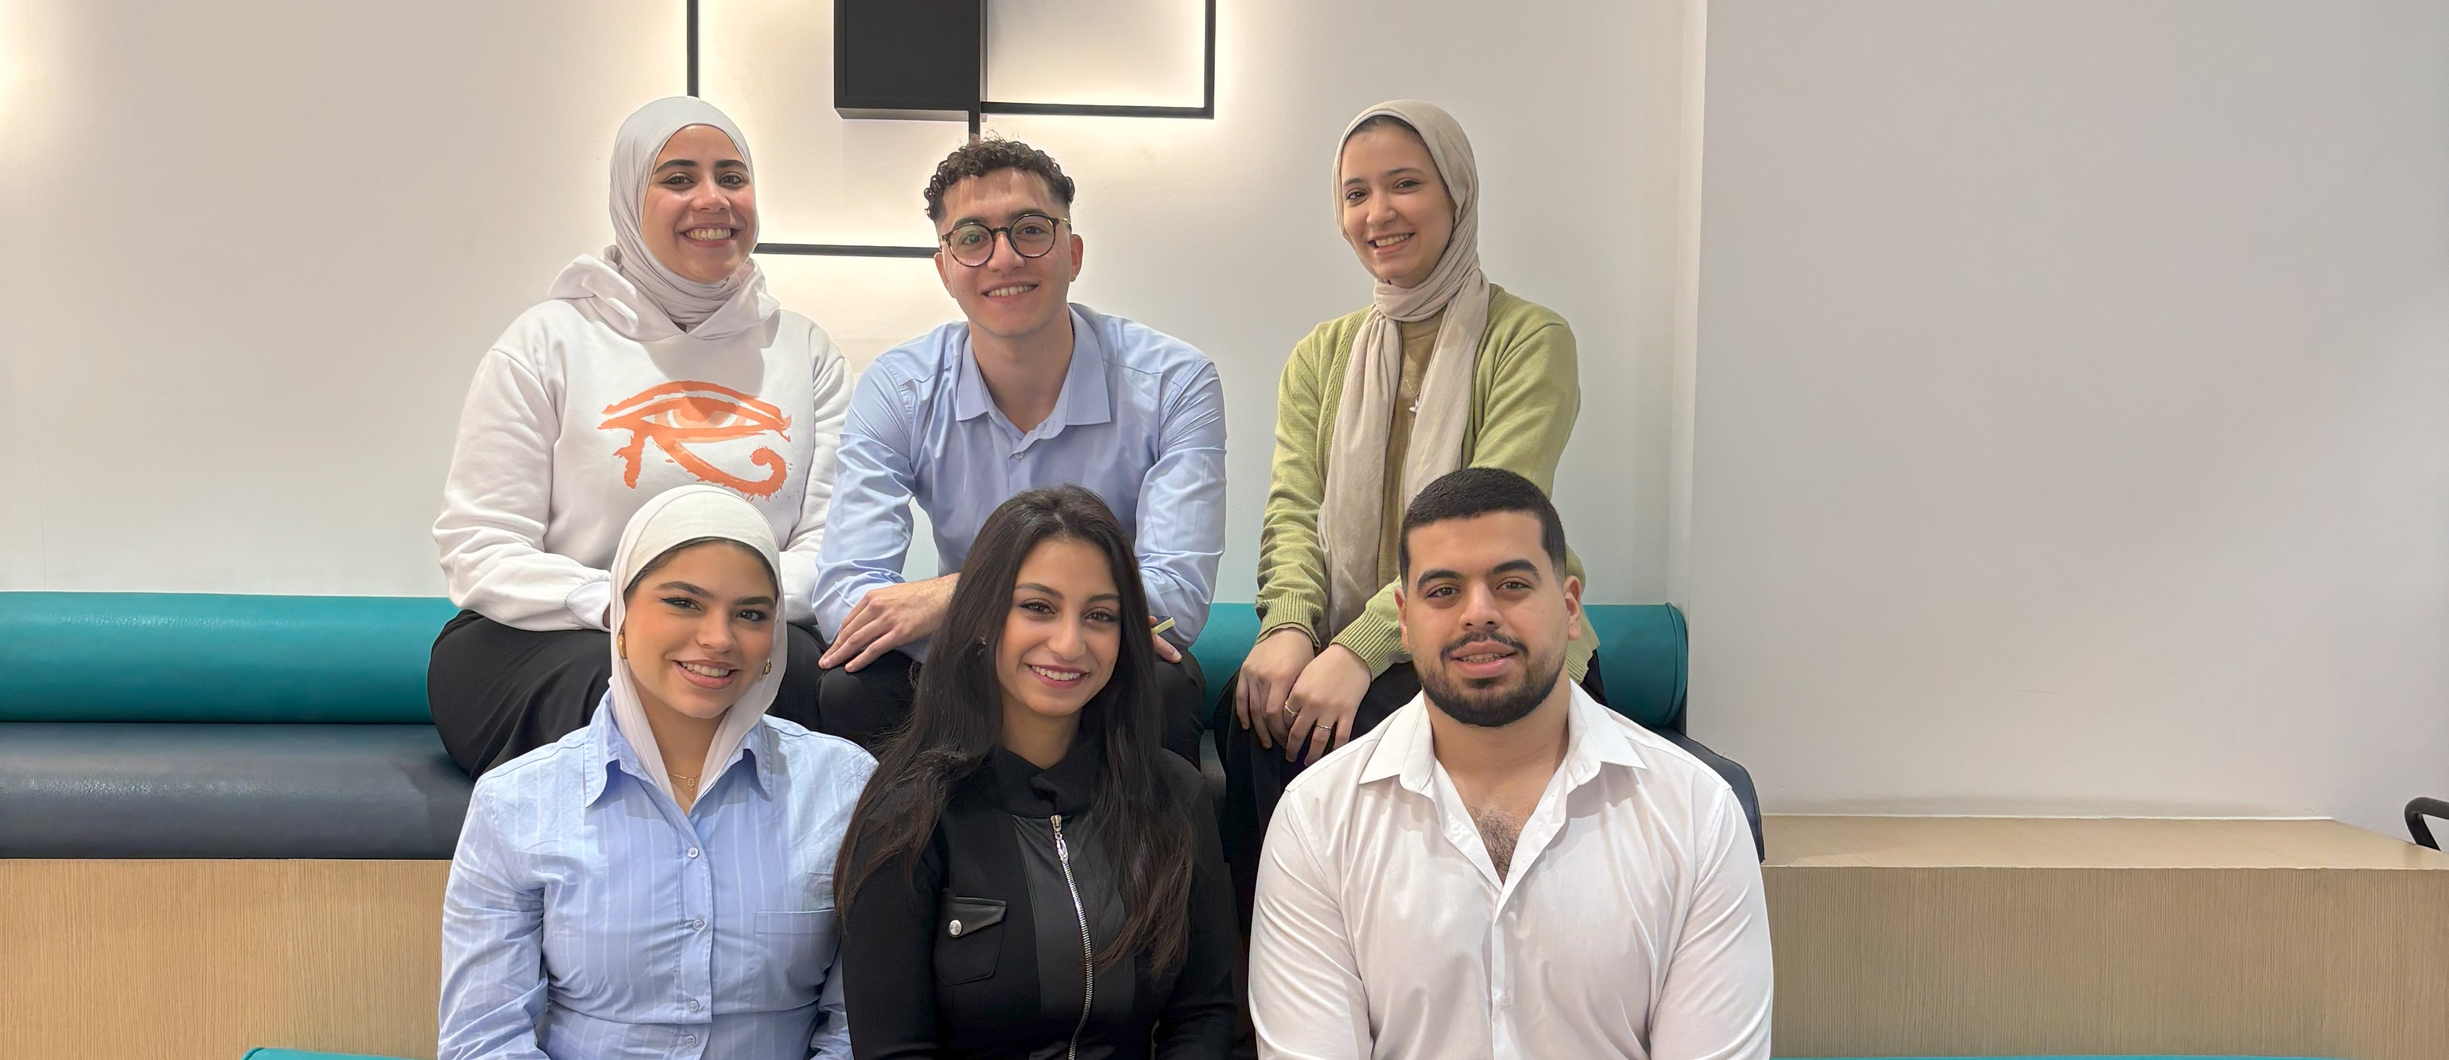
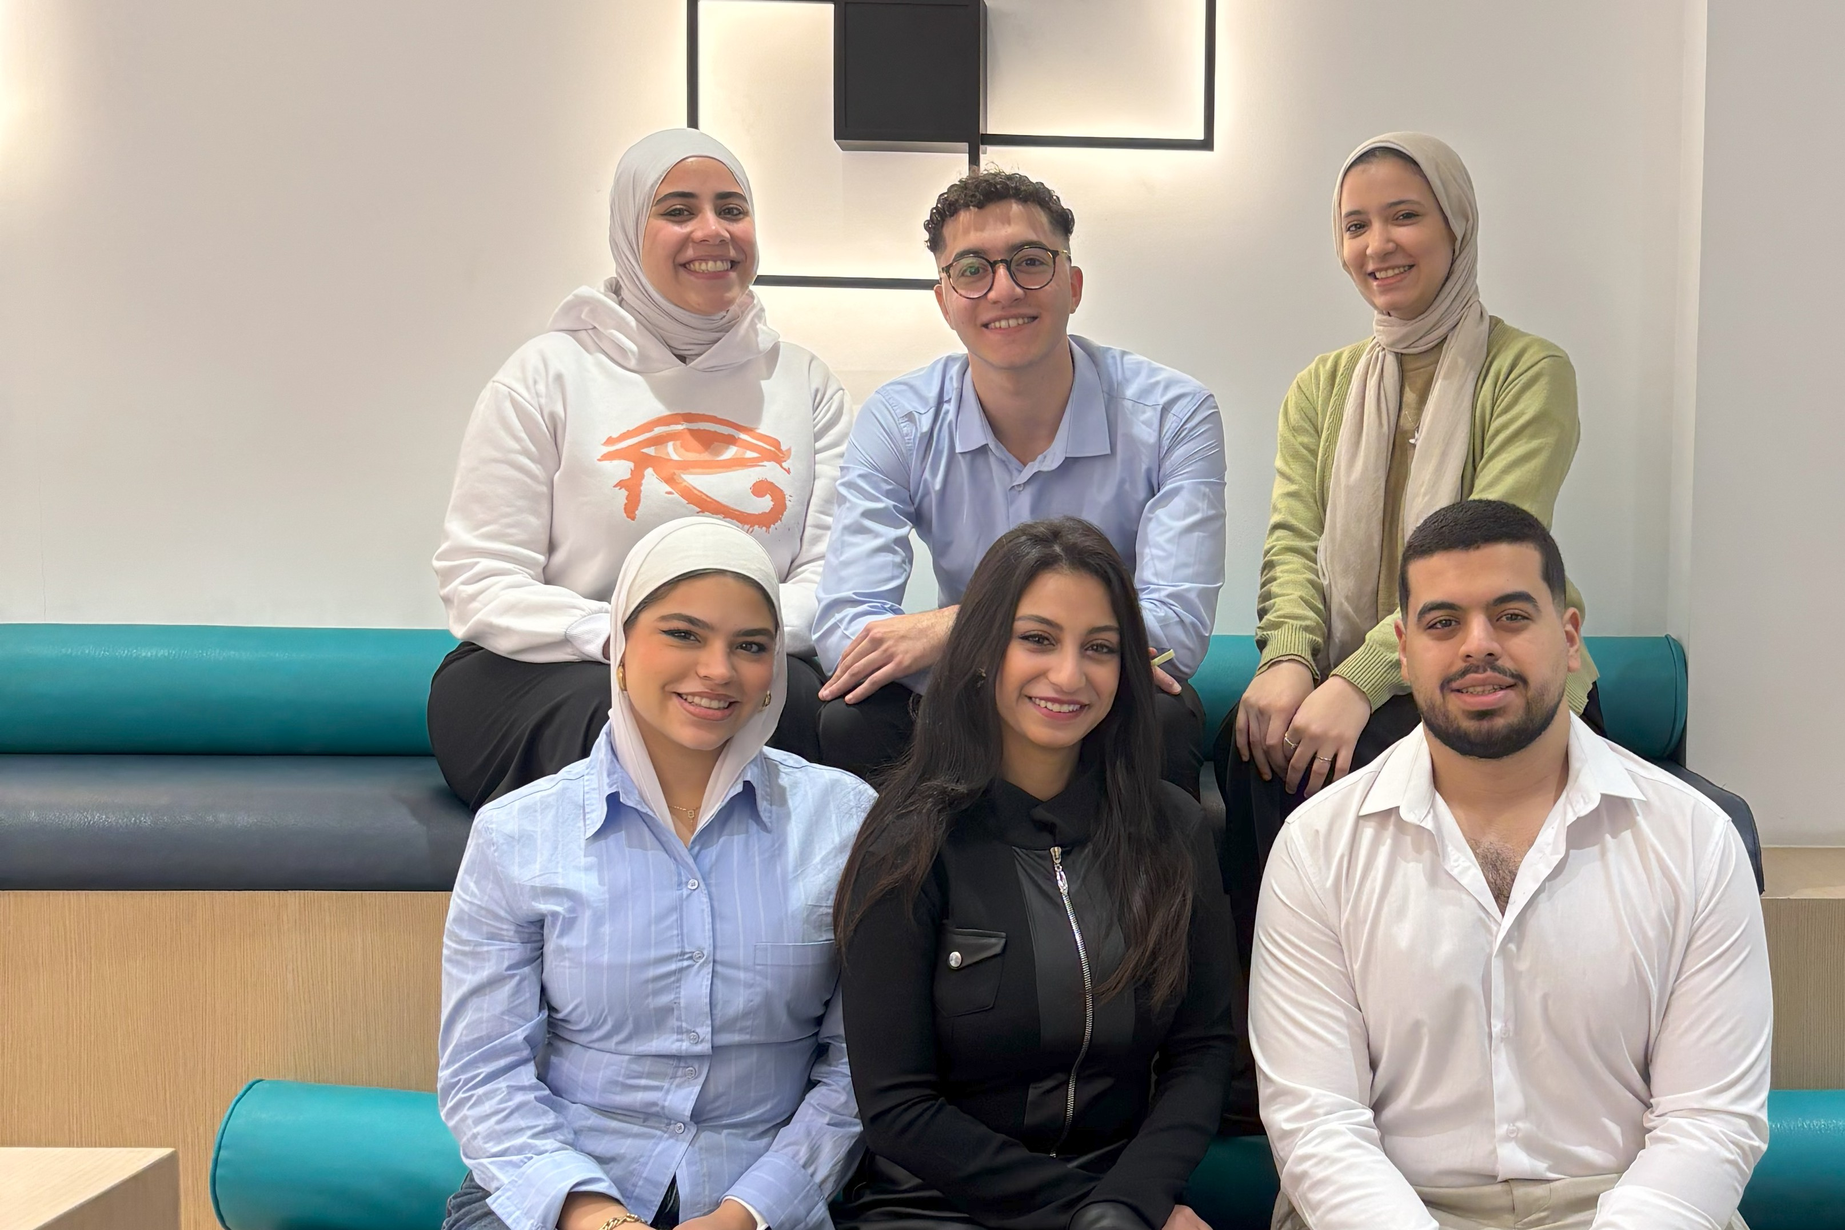
update styles in HTML files and replace team image

diff --git a/index.html b/index.html
@@ -151,7 +151,7 @@
 
     h1 {
       margin: .67em 0;
-      font-size: 2em
+      font-size: 1em
     }
 
     mark {
@@ -762,8 +762,8 @@
    }
     
    .heading_largee {
-        font-size: 6vh;
-        line-height: 1.2;
+        font-size: 2rem;
+        
       }
     @media (max-width: 768px) {
 
@@ -2922,7 +2922,7 @@
     }
 
     .text-size-medium {
-      font-size: 1.125rem
+      font-size: .875rem
     }
 
     .margin-top-auto {
@@ -3531,7 +3531,7 @@
       display: flex
     }
 
-    .nav_container {
+    .nav_container {  
       grid-column-gap: 1rem;
       grid-row-gap: 1rem;
       -webkit-backdrop-filter: blur(1rem);
@@ -3543,7 +3543,7 @@
       width: 100%;
       max-width: 90rem;
       height: auto;
-      min-height: 4.5rem;
+      min-height: 4rem;
       margin-left: auto;
       margin-right: auto;
       padding-left: 1.2rem;
@@ -4151,8 +4151,8 @@
       cursor: pointer;
       justify-content: space-between;
       align-items: center;
-      padding-top: 2rem;
-      padding-bottom: 2rem;
+      padding-top: 1rem;
+      padding-bottom: 1rem;
       transition: all .4s;
       display: flex;
 
@@ -4317,9 +4317,9 @@
     }
 
     .hero_heading {
-      letter-spacing: -6px;
-      font-size: 5.5rem;
-      line-height: 1
+      letter-spacing: -3px; 
+      font-size: 4.7rem;
+      
     }
 
     @media screen and (max-width:991px) {
@@ -4887,7 +4887,7 @@
       }
 
       .text-size-medium {
-        font-size: 1rem
+        font-size: .875rem
       }
 
       .text-style-quote {
@@ -5182,7 +5182,7 @@
 
       .hero_heading {
         letter-spacing: -5px;
-        font-size: 5rem
+        font-size: 3rem
       }
     }
 
@@ -5369,7 +5369,7 @@
 
       .hero_heading {
         letter-spacing: -2.5px;
-        font-size: 3rem
+        font-size: 2rem
       }
     }
 
@@ -6847,10 +6847,10 @@
             <div class="hero_content">
               <div class="padding-global">
                 <div class="container-large">
-                  <div class="padding-section-large">
+                  <div class="padding-section-large" style="padding-top: 0rem;padding-bottom: 3rem;">
                     <div class="hero_content-block">
                       <div class="margin-bottom margin-large">
-                        <h1 id="w-node-_5bd39bc8-c462-dd65-6a3b-018ef7198387-614ffb99"
+                        <h1  id="w-node-_5bd39bc8-c462-dd65-6a3b-018ef7198387-614ffb99"
                           data-w-id="5bd39bc8-c462-dd65-6a3b-018ef7198387" class="hero_heading max-width-xlarge">
                           <span
                             style="color: white; font-family: bb; opacity:0;-webkit-transform:translate3d(0, 75%, 0) scale3d(1, 1, 1) rotateX(0) rotateY(0) rotateZ(0) skew(0, 0);-moz-transform:translate3d(0, 75%, 0) scale3d(1, 1, 1) rotateX(0) rotateY(0) rotateZ(0) skew(0, 0);-ms-transform:translate3d(0, 75%, 0) scale3d(1, 1, 1) rotateX(0) rotateY(0) rotateZ(0) skew(0, 0);transform:translate3d(0, 75%, 0) scale3d(1, 1, 1) rotateX(0) rotateY(0) rotateZ(0) skew(0, 0)"
@@ -6958,10 +6958,10 @@
           <div class="container-large">
             <div class="padding-section-large">
               <div class="w-layout-grid intro_grid">
-                <h3 id="w-node-c7bc327d-970a-69ce-2175-cb5e77b2acd0-614ffb99"
+                <h4 id="w-node-c7bc327d-970a-69ce-2175-cb5e77b2acd0-614ffb99"
                   data-w-id="c7bc327d-970a-69ce-2175-cb5e77b2acd0">
                   <span
-                    style="color:#FFC70A ; font-size: 100px;  opacity:0;-webkit-transform:translate3d(0, 75%, 0) scale3d(1, 1, 1) rotateX(0) rotateY(0) rotateZ(0) skew(0, 0);-moz-transform:translate3d(0, 75%, 0) scale3d(1, 1, 1) rotateX(0) rotateY(0) rotateZ(0) skew(0, 0);-ms-transform:translate3d(0, 75%, 0) scale3d(1, 1, 1) rotateX(0) rotateY(0) rotateZ(0) skew(0, 0);transform:translate3d(0, 75%, 0) scale3d(1, 1, 1) rotateX(0) rotateY(0) rotateZ(0) skew(0, 0)"
+                    style="color:#FFC70A ; font-size: 4.7rem;  opacity:0;-webkit-transform:translate3d(0, 75%, 0) scale3d(1, 1, 1) rotateX(0) rotateY(0) rotateZ(0) skew(0, 0);-moz-transform:translate3d(0, 75%, 0) scale3d(1, 1, 1) rotateX(0) rotateY(0) rotateZ(0) skew(0, 0);-ms-transform:translate3d(0, 75%, 0) scale3d(1, 1, 1) rotateX(0) rotateY(0) rotateZ(0) skew(0, 0);transform:translate3d(0, 75%, 0) scale3d(1, 1, 1) rotateX(0) rotateY(0) rotateZ(0) skew(0, 0)"
                     class="span_heading _01  ">Human - <span style="color: white;">Centric</span> Culture
                   </span>
                   <div></div>
@@ -7022,24 +7022,24 @@
             <div class="textSlide"><h4>Operating in over 7 countries</h4></div>
             <div class="textSlide"><h4>98% Customer Satisfaction</h4></div>
             <div class="textSlide"><h4>Trained 2600+ Professionals</h4></div>
-            <div class="textSlide"><h4>500+ Employees Engaged</h4></div>
+            <div class="textSlide"><h4>+500 Employees Engaged</h4></div>
             <!-- Duplicated for seamless effect -->
             <div class="textSlide"><h4>Operating in over 7 countries</h4></div>
             <div class="textSlide"><h4>98% Customer Satisfaction</h4></div>
             <div class="textSlide"><h4>Trained 2600+ Professionals</h4></div>
-            <div class="textSlide"><h4>500+ Employees Engaged</h4></div>
+            <div class="textSlide"><h4>+500 Employees Engaged</h4></div>
             <div class="textSlide"><h4>Operating in over 7 countries</h4></div>
             <div class="textSlide"><h4>98% Customer Satisfaction</h4></div>
             <div class="textSlide"><h4>Trained 2600+ Professionals</h4></div>
-            <div class="textSlide"><h4>500+ Employees Engaged</h4></div>
+            <div class="textSlide"><h4>+500 Employees Engaged</h4></div>
             <div class="textSlide"><h4>Operating in over 7 countries</h4></div>
             <div class="textSlide"><h4>98% Customer Satisfaction</h4></div>
             <div class="textSlide"><h4>Trained 2600+ Professionals</h4></div>
-            <div class="textSlide"><h4>500+ Employees Engaged</h4></div>
+            <div class="textSlide"><h4>+500 Employees Engaged</h4></div>
             <div class="textSlide"><h4>Operating in over 7 countries</h4></div>
             <div class="textSlide"><h4>98% Customer Satisfaction</h4></div>
             <div class="textSlide"><h4>Trained 2600+ Professionals</h4></div>
-            <div class="textSlide"><h4>500+ Employees Engaged</h4></div>
+            <div class="textSlide"><h4>+500 Employees Engaged</h4></div>
           </div>
         </div>
       </section>
@@ -7106,7 +7106,7 @@
 
         .carouselTrack {
           width: calc(1100px * 4);
-          animation: infiniteLoop 3s linear infinite;
+          animation: infiniteLoop 10s linear infinite;
           animation-fill-mode: forwards;
           will-change: transform;
         }
@@ -7406,7 +7406,7 @@
 
 
         <section style="height: 120vh;">
-          <iframe style="width:100% ; height: 110vh; overflow: hidden;" src="chalanges.html" frameborder="0"></iframe>
+          <iframe style=" width:100% ; height: 130vh; overflow: hidden;" src="chalanges.html" frameborder="0"></iframe>
         </section>
 
 
@@ -7897,7 +7897,7 @@
         <div class="divider"></div>
     
         <!-- Right Side: Image & Quote -->
-        <div class="image-container">
+        <div class="image-container" style="margin-top: 108px;">
             <img class="profile-img" src="assets/images/amany1.jpeg" alt="Amany">
             <p class="quote">
                 "Ideal workplace starts with a little fun & a lot of connections. Where fun meets purpose, the workplace turns into a game. And I believe we are the game masters."
@@ -8024,20 +8024,20 @@
       <section style=" font-family: bb; " id="services" class="section_services">
         <div class="padding-global" style="padding:0px ;">
           <div class="container-large">
-            <h3 style="padding-top: 10vh;  "> <span style="font-family: bb; color: #FFC70A;"><span
+            <h3 style="padding: 10vh;  "> <span style="font-family: bb; color: #FFC70A;"><span
                   style="color: white;">Our</span> Services</span></h3>
 
-            <h2 style=" text-align: center; padding: 10vh; font-size: 5.5vh;padding-left: 0px;padding-right: 0px;"> <span style="font-family: bb; color: #ffffff;">Blissify
+            <h2 style=" text-align: center; padding: 10vh; font-size: 4rem ;padding-left: 0px;padding-right: 0px;"> <span style="font-family: bb; color: #ffffff;">Blissify
                 <span style="color: #FFC70A;">Hr</span> Consultancy</span></h2>
             <div id="services-section-width"  class="padding-section-large">
-              <div style="padding-bottom: 0rem; padding-bottom: 0rem;height: 897.633px;margin-top: -272px;"
+              <div style="padding-bottom: 0rem; padding-bottom: 0rem;height: 897.633px;margin-top: -272px;padding-left: 73px;padding-top: -1px;"
                 class="padding-bottom padding-huge">
                 <div class="w-layout-grid heading_grid">
                 </div>
                 <div
                   
-                style=" width: -50%; margin-right: -12px;margin-left: 856px;width: 500.85px;margin-top: 250px;margin-bottom: -485px;height: 331.567px;">
-                  <img style="border-radius: 50px;height: 577.8px;margin-top: -46px;" src="assets/images/team.jpg" alt=""></div>
+                style="  margin-right: -12px;margin-left: 750px;width: 500.85px;margin-top: 250px;margin-bottom: -436px;height: 331.567px;">
+                  <img style="border-radius: 50px;width: 70%; height: auto;; margin-top: -46px;" src="assets/images/team.jpg" alt=""></div>
                 <div>
 
 
@@ -8163,24 +8163,24 @@
             <div class="textSlide"><h4>Operating in over 7 countries</h4></div>
             <div class="textSlide"><h4>98% Customer Satisfaction</h4></div>
             <div class="textSlide"><h4>Trained 2600+ Professionals</h4></div>
-            <div class="textSlide"><h4>500+ Employees Engaged</h4></div>
+            <div class="textSlide"><h4>+500 Employees Engaged</h4></div>
             <!-- Duplicated for seamless effect -->
             <div class="textSlide"><h4>Operating in over 7 countries</h4></div>
             <div class="textSlide"><h4>98% Customer Satisfaction</h4></div>
             <div class="textSlide"><h4>Trained 2600+ Professionals</h4></div>
-            <div class="textSlide"><h4>500+ Employees Engaged</h4></div>
+            <div class="textSlide"><h4>+500 Employees Engaged</h4></div>
             <div class="textSlide"><h4>Operating in over 7 countries</h4></div>
             <div class="textSlide"><h4>98% Customer Satisfaction</h4></div>
             <div class="textSlide"><h4>Trained 2600+ Professionals</h4></div>
-            <div class="textSlide"><h4>500+ Employees Engaged</h4></div>
+            <div class="textSlide"><h4>+500 Employees Engaged</h4></div>
             <div class="textSlide"><h4>Operating in over 7 countries</h4></div>
             <div class="textSlide"><h4>98% Customer Satisfaction</h4></div>
             <div class="textSlide"><h4>Trained 2600+ Professionals</h4></div>
-            <div class="textSlide"><h4>500+ Employees Engaged</h4></div>
+            <div class="textSlide"><h4>+500 Employees Engaged</h4></div>
             <div class="textSlide"><h4>Operating in over 7 countries</h4></div>
             <div class="textSlide"><h4>98% Customer Satisfaction</h4></div>
             <div class="textSlide"><h4>Trained 2600+ Professionals</h4></div>
-            <div class="textSlide"><h4>500+ Employees Engaged</h4></div>
+            <div class="textSlide"><h4>+500 Employees Engaged</h4></div>
           </div>
         </div>
       </section>
@@ -8201,7 +8201,7 @@
           gap: 50px;
           position: relative;
           width: max-content; /* Ensures smooth scrolling */
-          animation: textScroll 20s linear infinite;
+          animation: textScroll 30s linear infinite;
         }
       
         .textSlide {
@@ -8506,7 +8506,7 @@
                     style="font-family: bb; color: var(--base-color-brand--black); opacity:0;-webkit-transform:translate3d(0, 75%, 0) scale3d(1, 1, 1) rotateX(0) rotateY(0) rotateZ(0) skew(0, 0);-moz-transform:translate3d(0, 75%, 0) scale3d(1, 1, 1) rotateX(0) rotateY(0) rotateZ(0) skew(0, 0);-ms-transform:translate3d(0, 75%, 0) scale3d(1, 1, 1) rotateX(0) rotateY(0) rotateZ(0) skew(0, 0);transform:translate3d(0, 75%, 0) scale3d(1, 1, 1) rotateX(0) rotateY(0) rotateZ(0) skew(0, 0)"
                     class="span_heading _01">
 
-                    <h1 style=" letter-spacing: 2px; opacity: 1;"> Advanced <span
+                    <h1 style=" letter-spacing: 2px; opacity: 1;padding-top: 61px;"> Advanced <span
                         style="color: #FFC70A;">HR</span> Journey Course</h1>
                   </span></span>
 
@@ -8556,24 +8556,24 @@
         <div class="textSlide"><h4>Operating in over 7 countries</h4></div>
         <div class="textSlide"><h4>98% Customer Satisfaction</h4></div>
         <div class="textSlide"><h4>Trained 2600+ Professionals</h4></div>
-        <div class="textSlide"><h4>500+ Employees Engaged</h4></div>
+        <div class="textSlide"><h4>+500 Employees Engaged</h4></div>
         <!-- Duplicated for seamless effect -->
         <div class="textSlide"><h4>Operating in over 7 countries</h4></div>
         <div class="textSlide"><h4>98% Customer Satisfaction</h4></div>
         <div class="textSlide"><h4>Trained 2600+ Professionals</h4></div>
-        <div class="textSlide"><h4>500+ Employees Engaged</h4></div>
+        <div class="textSlide"><h4>+500 Employees Engaged</h4></div>
         <div class="textSlide"><h4>Operating in over 7 countries</h4></div>
         <div class="textSlide"><h4>98% Customer Satisfaction</h4></div>
         <div class="textSlide"><h4>Trained 2600+ Professionals</h4></div>
-        <div class="textSlide"><h4>500+ Employees Engaged</h4></div>
+        <div class="textSlide"><h4>+500 Employees Engaged</h4></div>
         <div class="textSlide"><h4>Operating in over 7 countries</h4></div>
         <div class="textSlide"><h4>98% Customer Satisfaction</h4></div>
         <div class="textSlide"><h4>Trained 2600+ Professionals</h4></div>
-        <div class="textSlide"><h4>500+ Employees Engaged</h4></div>
+        <div class="textSlide"><h4>+500 Employees Engaged</h4></div>
         <div class="textSlide"><h4>Operating in over 7 countries</h4></div>
         <div class="textSlide"><h4>98% Customer Satisfaction</h4></div>
         <div class="textSlide"><h4>Trained 2600+ Professionals</h4></div>
-        <div class="textSlide"><h4>500+ Employees Engaged</h4></div>
+        <div class="textSlide"><h4>+500 Employees Engaged</h4></div>
       </div>
     </div>
   </section>
@@ -8605,39 +8605,12 @@
         </div>
       </div>
       <div>
-        <iframe style="width: 100%; height: 700px;" src="stacked-cards.html" frameborder="0"></iframe>
+        <iframe style="width: 100%; height: 110vh;" src="stacked-cards.html" frameborder="0"></iframe>
       </div>
     </div>
 
 
-    <section style="padding-top: 10%; white-space: nowrap; overflow: hidden; position: relative; width: 100%; display: flex; align-items: center;">
-      <div style="font-family: bb; display: flex; gap: 2rem; width: max-content; animation: slide 15s linear infinite;">
-          <span style="font-size: 10rem; font-weight: bold; color: #1b1648; text-transform: uppercase; letter-spacing: 5px;">
-              GET IN TOUCH • 
-          </span>
-          <span style="font-size: 10rem; font-weight: bold; color:#b8921785 ; text-transform: uppercase; letter-spacing: 5px;">
-              GET IN TOUCH • 
-          </span>
-          <span style="font-size: 10rem; font-weight: bold; color:#1b1648; ; text-transform: uppercase; letter-spacing: 5px;">
-            GET IN TOUCH • 
-          </span>
-          <span style="font-size: 10rem; font-weight: bold; color:#b8921785 ; text-transform: uppercase; letter-spacing: 5px;">
-              GET IN TOUCH • 
-          </span>
-      </div>
-  
-      <style>
-          @keyframes slide {
-              from {
-                  transform: translateX(0);
-              }
-              to {
-                  transform: translateX(-50%);
-              }
-          }
-      </style>
-  </section>
-  
+    
   
   <section style="font-family: bb; ">
     <header>
@@ -8723,24 +8696,27 @@
     
     
   </body>
+  <style>
+    
+  </style>
   <footer class="footer" style="font-family: bb ; background-image: url(assets/foot.png); background-size: cover; " >
    <div  style="padding-top: -32%; padding: 5%;margin-top: -30px;">
-    <h5 >say hi </h5>
+    <h7 >say hi </h5>
     <a style="text-decoration: none;" href="mailto:business@blissify.work">
 
-      <h3 style="color: white; padding-top: 3%;" >business@blissify.work</h3>
+      <h4 style="color: white; padding-top: 3%;" >business@blissify.work</h3>
     </a>
     <h6 style="padding-top: 7%;">
       Phone</h6>
       <a style=" text-decoration: none;" href="tel:+201152414703">
 
-        <h3 style="color: white; padding-top: 3%;" >
+        <h4 style="color: white; padding-top: 3%;" >
           +201152414703</h3>
       </a>
     
    </div>
   
-   <div  style="justify-content: center; padding-top: -32%; padding: 5%;margin-top: 40px;padding-left: 27%;">
+   <div style="justify-content: center; padding-top: -32%; padding: 5%;margin-top: 0px;padding-left: 26%;">
     <h6 >Blissify HR Consultancy </h6>
    
     <div style="justify-content: center; filter: brightness(10000);  display: flex;">

diff --git a/stacked-cards.html b/stacked-cards.html
@@ -3507,7 +3507,7 @@
             <div class="swiper-wrapper">
               <div class="swiper-slide tinyflow-slide">
                 <article class="card background-brand-secondary">
-                  <p class="card__text">
+                  <p style="font-size: 1rem;" class="card__text">
                     "Dear Blissify Team,
                     I wanted to extend our heartfelt thanks for the exceptional team-building event you organized. It
                     was a truly memorable experience that brought our team closer together and improved our
@@ -3525,7 +3525,7 @@
               </div>
               <div class="swiper-slide tinyflow-slide">
                 <article class="card background-brand-secondary">
-                  <p style="font-size: 2.5vh;" class="card__text">
+                  <p style="font-size: 0.8rem;" class="card__text">
                     I recently had the pleasure working with blissify for HR consulting and I couldn’t be more satisfied with their services. 
 Amany Helmy  provided exceptional support and handled my team with the utmost care and professionalism. 
 Her expertise and personalized approach made a positive impact on our operations. 

diff --git a/chalanges.html b/chalanges.html
@@ -8965,7 +8965,7 @@
     
       <section style="width: 100%; height: 10vh;" class="why_choose_us_section">
         <div class="w-layout-blockcontainer container w-container" style="width: 100%;">
-          <div class="_2_column_block why_choose_us">
+          <div class="_2_column_block why_choose_us" style="margin-top: -59px;">
             <div class="left_block">
               <div class="section_ttile_wrapper">
                 
